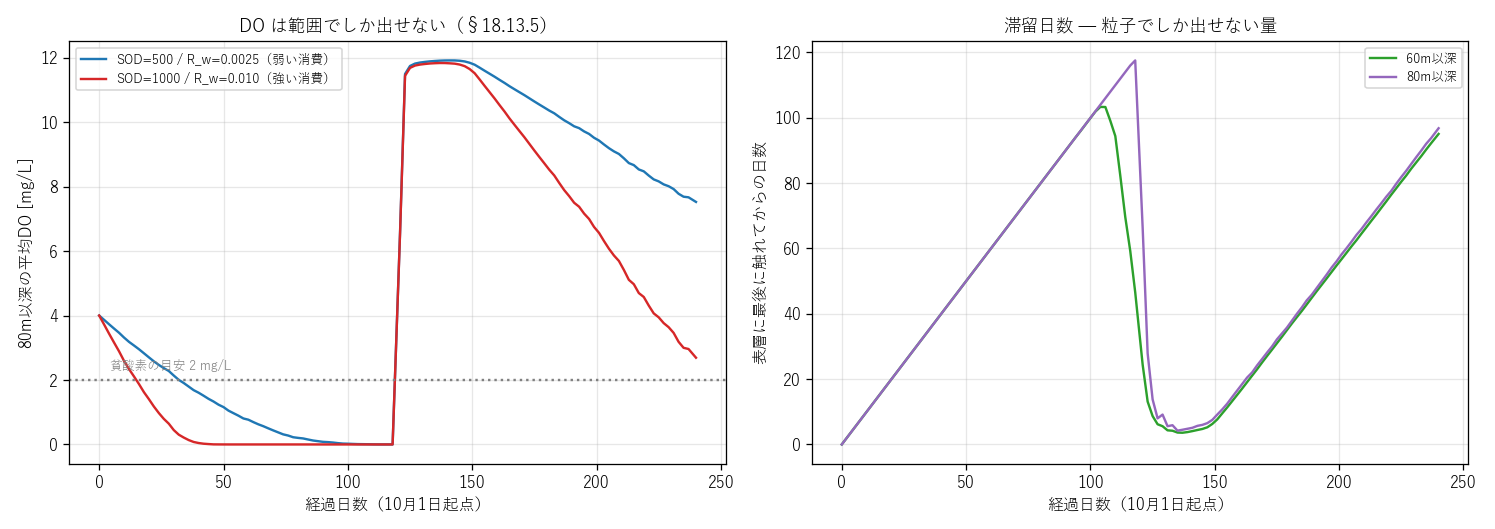
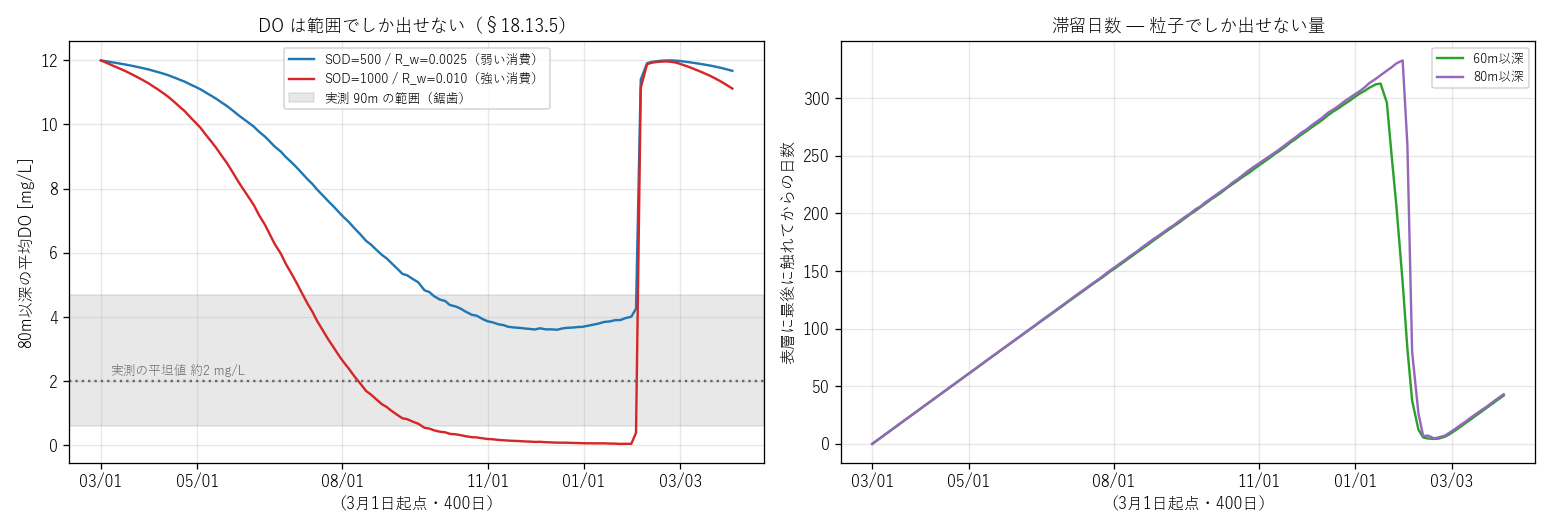
vault backup: 2026-08-29 11:38:52

diff --git a/_sec1919.md b/_sec1919.md
@@ -1,0 +1,96 @@
+
+### 19.19 【自己訂正】§19.16 の DO は古いソルバを使っていた
+
+**§16.7 が警告した「ソルバが2つあると必ず片方が取り残される」を、
+自分でやった。** §19.15〜19.17 で他のスクリプトの同じ失敗を指摘しながら、
+§19.16 の DO 可視化そのものが古いソルバを呼んでいた。
+
+#### 19.19.1 DO ソルバは2つある
+
+| | `fd_oxygen.solve_to` | `calibrate_do_annual.solve_annual` |
+|---|---|---|
+| SOD | 定数 | **Monod(`K_m`) ＋ 季節変化(`SOD_amp`)** |
+| 境界混合 | なし | **`K_bed`**（40m以深に限定、§18.16） |
+| 風 | なし | 間欠性で `K_bed` を変調（§18.19） |
+| 起点・期間 | 10/1・240日 | **3/1・400日**（通年） |
+| 位置づけ | §15.10 の履歴 | **現行**（§18.17〜18.20） |
+
+発見の経緯: `琵琶湖_成果まとめ.md` に `K_bed` / `SOD_amp` があり、
+私が §19.16 で使ったコードには無かった。旧図の混入を確認しに行って、
+自分の誤りが出てきた。
+
+#### 19.19.2 新旧でどう変わるか
+
+| | 旧（fd_oxygen） | 新（通年） | 実測 |
+|---|---|---|---|
+| 90m DO 最小の**時期** | 全ケース 02/10 | **12/02**（low） | 10月下旬〜11月下旬 |
+| 12/1 の 90m DO | 0.25 | **3.31**（low）/ 0.04（high） | 約2（0.6〜4.7の鋸歯） |
+
+**時期が直った**（§18.17 の記述どおり）。旧ソルバは両端とも実測より低く、
+§19.16 で「モデルは実測より貧酸素に振れる」と書いたが、
+**そのずれの大部分はソルバ選択が原因だった**。新ソルバでは実測の約2 mg/L を
+範囲の両端（3.31 と 0.04）が挟む。範囲としては正しく振る舞っている。
+
+#### 19.19.3 対処
+
+**`calib.solve_oxygen_annual()` を追加**し、K_bed=3.0e-5 / SOD_amp=0.9 /
+K_m=2.0（§18.17〜18.20 の確定値）を集約した。旧 `calib.solve_oxygen` には
+「古い。新規は使うな」と明記して残した（§15.10 の履歴として）。
+
+**`k_bed_face()` を共有関数に切り出した。** 粒子の拡散係数にも K_bed が
+要るが、式を写せば同じ罠になる。`calibrate_do_annual.py` から関数として
+切り出し、`solve_annual` と `make_convection` の両方が呼ぶ形にした。
+切り出し前後で数値が完全一致することを確認（90m DO 最小 3.31 /
+10/1 4.19 / 12/1 3.31）。
+
+#### 19.19.4 ついでに潰した3つのバグ
+
+**① 混合層の指標が死んでいた。** 「K が背景の10倍を超える最深部」で
+測っていたが、**K_bed は深層で年中効く**ので常に湖底(104.5m)を返した。
+混合層は本来**水温**で定義される量なので、表層から 0.2℃ ずれる深さを
+格子間補間で取る形に変更（`plot_temperature.py` と同じ定義）。
+
+**② 日付ラベルが5ヶ月ずれた。** `paraview_convection.py` が 10/1 起点を
+決め打ちしており、3/1起点の通年データを day 275 = 07/03 と表示した
+（正しくは 12/01）。**`.pvd` は経過日数しか持たない**ので、起点を
+`meta.json` に書いて渡す形にした（`npz_to_vtp.py` が生成）。
+
+**③ 滞留日数の配色上限が飽和。** 150日は10/1起点240日版の名残で、
+通年では深層水が 275日を超えて頭打ちになった。300日へ。
+
+#### 19.19.5 結果 —— 通年の貧酸素サイクル
+
+| 日付 | DO [mg/L] | 滞留日数 | 混合層 |
+|---|---|---|---|
+| 03/01（起点） | 11.99 一様 | 0 | 全層混合 |
+| 08/28 | 4.06〜10.20 | 〜181日 | 4.8m |
+| **12/01** | **2.46〜10.22** | **〜275日** | 31.8m |
+| 02/04 | 10.83〜11.92 | 〜342日 | — |
+| **03/01（1年後）** | **11.95〜12.02 一様** | **〜32日** | 全層循環 |
+
+**深層水が9ヶ月間表層に触れず、その間に酸素を使い切り、
+全層循環で一気にリセットされる。** 滞留日数と DO の絵で境界が一致する。
+
+検証: 8/29 の表層 **28.02℃**（実測27〜28℃）、混合層 11月 17.5m /
+12月 31.8m / 1月 63.1m はいずれも成果まとめ §5 の実測レンジ内。
+**2/27 に全層循環。**
+
+#### 19.19.6 成果物（差し替え）
+
+`biwa_do_low.npz` / `biwa_do_high.npz`（通年版に更新）/
+`out_do_low/` / `out_do_high/`（`meta.json` 付き）/
+`pv_DO_mgL/biwa_DO_mgL.mp4` / `pv_age_days/biwa_age_days.mp4` /
+`fig_do_range_age.png`。Vault の `biwa/` にも `do_1201.png` /
+`age_1201.png` を含めて配置済み。
+
+#### 19.19.7 教訓
+
+**同じ物理量に対してソルバが2つあるなら、古いほうに「使うな」と
+書くだけでは足りない。** §16.7 でそう決めた後も、`fd_oxygen.py` は
+何の警告もなく import 可能なまま残り、実際に私が呼んだ。
+`calib.py` に集約したうえで、**旧ソルバのモジュール先頭に
+警告を書く**のが最低限である。
+
+もう一つ: **成果をまとめた文書（`琵琶湖_成果まとめ.md`）のほうが
+引き継ぎ書より正確な場合がある。** 確定値だけを書いた文書は
+更新が追いつきやすい。作業前にそちらも読むこと。
